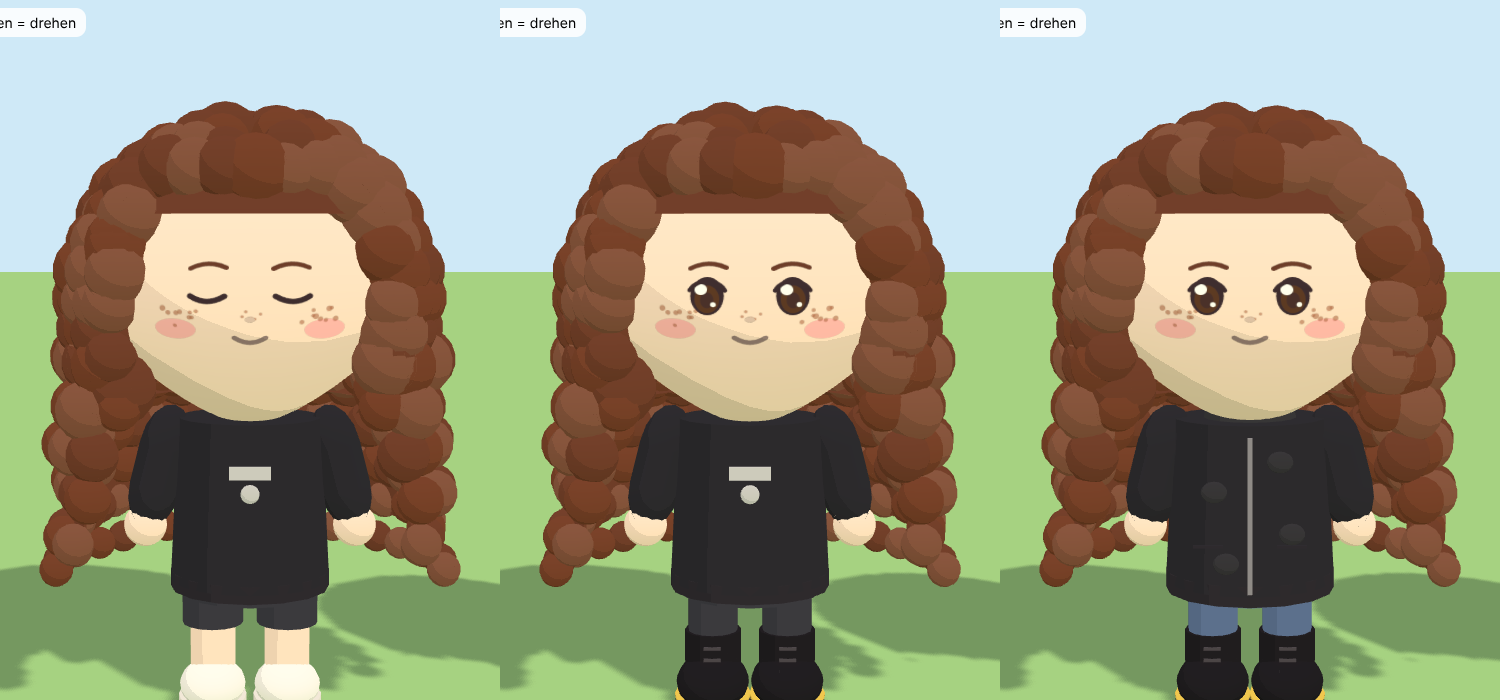
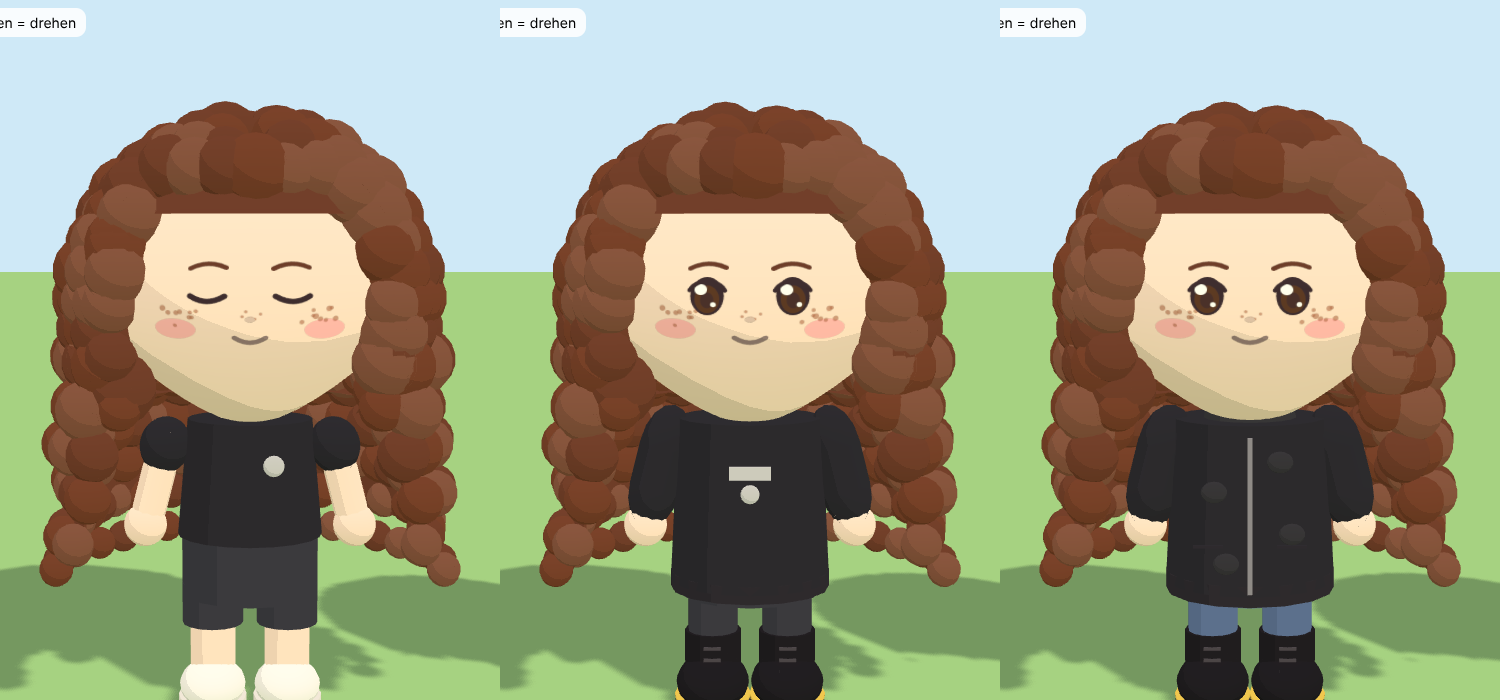
Tür-Animation beim Betreten/Verlassen & kurzes Sommer-Oberteil für Lina
- doorTransition: Lina geht zur Tür hinein, weiches Abblenden, tritt auf der anderen Seite heraus
  (Haus, Räume/Treppe, Sonntagsessen bei Jens); Winston kommt mit
- Outfit „Kurzes Oberteil & kurze Hose“ (kurze Ärmel), Streetwear je nach Jahreszeit nutzt es im Sommer

Claude-Session: https://claude.ai/code/session_01ThTYhPHTkGtFy4ue8CC8z3

diff --git a/src/world3d/World3D.ts b/src/world3d/World3D.ts
@@ -161,6 +161,8 @@ export class World3D {
   /** erst nach dem Verlassen eines Ausgangs-Feldes darf er wieder auslösen */
   private exitArmed = true;
   private winston: Winston | null = null;
+  /** Automatisches Gehen (Tür-Animation) */
+  private autoWalk: { dx: number; dy: number; until: number } | null = null;
   private yard: Yard3D;
   private animals: Animals3D;
   private digSpots: DigSpots3D;
@@ -337,7 +339,9 @@ export class World3D {
         }
       }
       const blocked = this.session.uiBlocking || this.cutscene;
-      const intent = blocked ? { dx: 0, dy: 0, run: false } : this.keys.direction();
+      const auto = this.autoWalk && performance.now() < this.autoWalk.until ? this.autoWalk : null;
+      if (!auto) this.autoWalk = null;
+      const intent = auto ? { dx: auto.dx, dy: auto.dy, run: false } : blocked ? { dx: 0, dy: 0, run: false } : this.keys.direction();
       if (blocked && player.hasPath && !this.cutscene) player.cancelPath();
       const grid = this.session.map.grid;
       if (this.fishing.active && (intent.dx !== 0 || intent.dy !== 0 || player.hasPath)) this.stopFishing();
@@ -348,7 +352,8 @@ export class World3D {
         : (tx: number, ty: number) => grid.isBlocked(tx, ty);
       // drinnen bleibt Lina beim Einrichten stehen, im Garten darf sie herumlaufen
       if (this.session.decorActive && this.session.inside) intent.dx = intent.dy = 0;
-      player.update(dtMs, intent, solid);
+      // beim Durch-die-Tür-Gehen: keine Kollision (sonst stünde Lina vor der Hauswand)
+      player.update(dtMs, intent, auto ? () => false : solid);
       this.updateWinston(dtMs, player, blocked, solid);
       this.updateHomeOli(dtMs);
       if (this.session.inside && !this.session.decorActive) {
@@ -1137,7 +1142,7 @@ export class World3D {
       return;
     }
     if (id === 'haus-lina') {
-      this.enterHome();
+      this.doorTransition('up', () => this.enterHome(), 'up');
       return;
     }
     if (id === 'haus-thalia') {
@@ -1658,7 +1663,7 @@ export class World3D {
         title,
         lines: ['Aus dem Haus duftet es herrlich, drinnen wird gelacht.', '„Lina! Komm rein, komm rein – mir sitzen schon alle am Tisch!“'],
         choices: [
-          { label: '🍽 Reingehen & mitessen', onSelect: () => this.sundayDinner(jens) },
+          { label: '🍽 Reingehen & mitessen', onSelect: () => this.doorTransition('up', () => this.sundayDinner(jens), 'down') },
           { label: '👋 Später', onSelect: () => undefined },
         ],
       });
@@ -2101,8 +2106,46 @@ export class World3D {
   }
 
   private useExit(e: Exit) {
-    if (e.to === 'draussen') this.exitHome();
-    else this.placeInRoom(e.to, this.session.roomId);
+    if (this.cutscene) return;
+    if (e.to === 'draussen') this.doorTransition('down', () => this.exitHome(), 'down');
+    else this.doorTransition(e.dir, () => this.placeInRoom(e.to, this.session.roomId), e.dir === 'up' ? 'down' : 'up');
+  }
+
+  /**
+   * Tür-Animation: Lina geht ein paar Schritte (`dirIn`), das Bild blendet weich ab, `action` wechselt
+   * den Ort, dann blendet es wieder auf und Lina geht ein Stück weiter (`dirOut`). Winston kommt mit.
+   */
+  private doorTransition(dirIn: 'up' | 'down', action: () => void, dirOut: 'up' | 'down') {
+    const player = this.player;
+    if (!player || this.cutscene) return;
+    this.cutscene = true;
+    player.cancelPath();
+    if (player.sitting) this.standUp();
+    this.marker.visible = false;
+    const dy = (d: 'up' | 'down') => (d === 'up' ? -1 : 1);
+    player.face(dirIn);
+    this.autoWalk = { dx: 0, dy: dy(dirIn), until: performance.now() + 380 };
+    this.session.bus.emit('overlay:fade', true);
+    window.setTimeout(() => {
+      this.autoWalk = null;
+      action();
+      const p = this.player;
+      if (p) {
+        // ein Stück zurück „in die Tür“ setzen, damit Lina heraustreten kann
+        p.teleport(p.x, p.y - dy(dirOut) * 22);
+        p.face(dirOut);
+        this.dogFollow();
+      }
+      window.setTimeout(() => {
+        this.session.bus.emit('overlay:fade', false);
+        this.autoWalk = { dx: 0, dy: dy(dirOut), until: performance.now() + 260 };
+        window.setTimeout(() => {
+          this.autoWalk = null;
+          this.cutscene = false;
+          this.exitArmed = false;
+        }, 300);
+      }, 120);
+    }, 420);
   }
 
   private enterHome() {

diff --git a/src/world3d/models/chibi3d.ts b/src/world3d/models/chibi3d.ts
@@ -509,6 +509,7 @@ export class Chibi3D {
         break;
       case 'sweatshirt':
       case 'shorts':
+      case 'sommer':
       case 'fleece':
         pants = a.accentColor === a.outfitColor ? (o === 'fleece' ? jeans : '#3a3a44') : a.accentColor;
         break;
@@ -522,7 +523,7 @@ export class Chibi3D {
     for (const side of [-1, 1]) {
       const leg = new THREE.Group();
       leg.position.set(side * 0.066 * bw, this.hipY, 0);
-      if (o === 'shorts') {
+      if (o === 'shorts' || o === 'sommer') {
         // kurze Hose: oben Stoff, darunter Beine
         leg.add(part(cylinder, skin, 0.04 * Math.min(1.15, bw), legLen, 0.04, 0, -legLen / 2, 0));
         leg.add(part(cylinder, pants, 0.054 * Math.min(1.15, bw), legLen * 0.42, 0.054, 0, -legLen * 0.21, 0));
@@ -565,10 +566,13 @@ export class Chibi3D {
       shirtMat = new THREE.MeshToonMaterial({ map: tex });
     }
     const street = o === 'sweatshirt' || o === 'shorts' || o === 'fleece';
+    const summer = o === 'sommer';
     // Oversize: weiter & länger (reicht über die Hüfte)
     const shirt = street
       ? part(new THREE.CylinderGeometry(0.9, 1, 1, 20), shirtMat, topR * (o === 'fleece' ? 1.38 : 1.3), torso * 0.98, topR * (o === 'fleece' ? 1.28 : 1.2), 0, torsoY + torso * 0.02, 0)
-      : part(new THREE.CylinderGeometry(0.82, 1, 1, 20), shirtMat, topR * 1.15, torso * 0.78, topR * 1.05, 0, torsoY + torso * 0.11, 0);
+      : summer
+        ? part(new THREE.CylinderGeometry(0.86, 1, 1, 20), shirtMat, topR * 1.18, torso * 0.7, topR * 1.08, 0, torsoY + torso * 0.15, 0)
+        : part(new THREE.CylinderGeometry(0.82, 1, 1, 20), shirtMat, topR * 1.15, torso * 0.78, topR * 1.05, 0, torsoY + torso * 0.11, 0);
     this.body.add(shirt);
     const neckY = this.hipY + torso * 0.98;
 
@@ -606,6 +610,14 @@ export class Chibi3D {
       this.body.add(hood);
       for (const s of [-1, 1]) this.body.add(part(cylinder, '#1e1e24', 0.006, 0.09, 0.006, s * 0.03, neckY - 0.06, topR * 1.02));
       this.body.add(part(box, '#1e1e24', 0.008, torso * 0.65, 0.006, 0, torsoY + 0.02, topR * 1.05));
+    }
+    if (summer) {
+      // kurzes Shirt: runder Halsausschnitt, kleines eigenes Emblem
+      const neck = mesh(new THREE.TorusGeometry(topR * 0.5, 0.01, 6, 18), toon(darken(a.outfitColor, 0.1)));
+      neck.rotation.x = Math.PI / 2;
+      neck.position.y = neckY - 0.01;
+      this.body.add(neck);
+      this.body.add(part(sphereLow, lighten(a.outfitColor, 0.75), 0.018, 0.018, 0.006, 0.04, torsoY + 0.08, topR * 1.1));
     }
     if (o === 'sweatshirt' || o === 'shorts') {
       // Rippbündchen unten & am Hals, kleines Emblem auf der Brust (eigenes Design, keine Marke)
@@ -670,7 +682,11 @@ export class Chibi3D {
       arm.position.set(side * (topR + 0.035), shoulderY, 0);
       arm.rotation.z = side * 0.25;
       const thick = street ? (o === 'fleece' ? 1.4 : 1.28) : 1;
-      arm.add(part(capsule, sleeveMat, 0.035 * Math.min(1.15, bw) * thick, (street ? 0.075 : 0.1) * Math.min(1.1, h), 0.035 * thick, 0, street ? -0.065 : -0.08, 0));
+      if (summer) {
+        // kurze Ärmel, darunter nackter Arm
+        arm.add(part(capsule, skin, 0.03 * Math.min(1.15, bw), 0.07 * Math.min(1.1, h), 0.03, 0, -0.105, 0));
+        arm.add(part(sphere, sleeveMat, 0.045 * Math.min(1.15, bw), 0.05, 0.045, 0, -0.025, 0));
+      } else arm.add(part(capsule, sleeveMat, 0.035 * Math.min(1.15, bw) * thick, (street ? 0.075 : 0.1) * Math.min(1.1, h), 0.035 * thick, 0, street ? -0.065 : -0.08, 0));
       arm.add(part(sphere, skin, 0.038, 0.038, 0.038, 0, -0.17 * Math.min(1.1, h), 0));
       this.handY = -0.17 * Math.min(1.1, h);
       this.body.add(arm);

diff --git a/src/core/appearance.ts b/src/core/appearance.ts
@@ -9,7 +9,7 @@ import { palette } from '../style/palette';
 import type { Season } from './time';
 
 export type HairStyle = 'locken' | 'schulterlang' | 'bob' | 'zopf' | 'dutt' | 'kurz' | 'wuschel' | 'zerzaust' | 'kurzgeschoren' | 'glatt';
-export type Outfit = 'kleid' | 'pulli' | 'latzhose' | 'hemd' | 'strickjacke' | 'mantel' | 'weste' | 'streifenhemd' | 'hoodie' | 'troyer' | 'sweatshirt' | 'shorts' | 'fleece' | 'saison';
+export type Outfit = 'kleid' | 'pulli' | 'latzhose' | 'hemd' | 'strickjacke' | 'mantel' | 'weste' | 'streifenhemd' | 'hoodie' | 'troyer' | 'sweatshirt' | 'shorts' | 'sommer' | 'fleece' | 'saison';
 export type Beard = 'keiner' | 'kurz' | 'voll' | 'schnurrbart';
 export type Smile = 'laecheln' | 'grinsen' | 'zahnluecke';
 export type GlassesShape = 'rund' | 'eckig';
@@ -77,6 +77,7 @@ export const OUTFITS: Option<Outfit>[] = [
   { id: 'mantel', label: 'Mantel & Schal' },
   { id: 'sweatshirt', label: 'Oversize-Sweatshirt' },
   { id: 'shorts', label: 'Sweatshirt & kurze Hose' },
+  { id: 'sommer', label: 'Kurzes Oberteil & kurze Hose' },
   { id: 'fleece', label: 'Dicke Fleece-Jacke' },
   { id: 'saison', label: 'Streetwear je nach Jahreszeit' },
 ];
@@ -84,7 +85,7 @@ export const OUTFITS: Option<Outfit>[] = [
 /** Was eine Figur in der Jahreszeit tatsächlich trägt („saison“ = Streetwear: Sommer kurz, Winter Fleece) */
 export function outfitFor(a: Appearance, season: Season): Exclude<Outfit, 'saison'> {
   if (a.outfit !== 'saison') return a.outfit;
-  return season === 'sommer' ? 'shorts' : season === 'winter' ? 'fleece' : 'sweatshirt';
+  return season === 'sommer' ? 'sommer' : season === 'winter' ? 'fleece' : 'sweatshirt';
 }
 
 export const SMILES: Option<Smile>[] = [

diff --git a/src/ui/Hud.tsx b/src/ui/Hud.tsx
@@ -37,10 +37,13 @@ export function Hud({ session }: { session: Session }) {
   const { inside, inYard, decor } = useHomeState(session);
   const [stars, setStars] = useState(false);
   useEffect(() => session.bus.on('overlay:stars', setStars), [session]);
+  const [fade, setFade] = useState(false);
+  useEffect(() => session.bus.on('overlay:fade', setFade), [session]);
   return (
     <>
       {weather.rainbow && <div class="rainbow-overlay" aria-hidden="true" />}
       {stars && <StarsOverlay />}
+      <div class={`door-fade ${fade ? 'on' : ''}`} aria-hidden="true" />
       {isFireworkTime(now) && !inside && <FireworksOverlay />}
       <div class="hud-clock pop-in">
         <div class="hud-time">

diff --git a/src/core/appearance.test.ts b/src/core/appearance.test.ts
@@ -54,7 +54,7 @@ describe('Aussehen', () => {
 
   it('Streetwear je nach Jahreszeit: Sommer kurz, Winter Fleece', () => {
     const a = { ...DEFAULT_LINA, outfit: 'saison' as const };
-    expect(outfitFor(a, 'sommer')).toBe('shorts');
+    expect(outfitFor(a, 'sommer')).toBe('sommer');
     expect(outfitFor(a, 'winter')).toBe('fleece');
     expect(outfitFor(a, 'herbst')).toBe('sweatshirt');
     expect(outfitFor({ ...a, outfit: 'kleid' }, 'winter')).toBe('kleid');

diff --git a/src/ui/ui.css b/src/ui/ui.css
@@ -1679,3 +1679,19 @@ body {
   gap: 6px;
   margin-top: 10px;
 }
+
+/* ---------------------------------------------------------------- Tür-Animation */
+
+.door-fade {
+  position: fixed;
+  inset: 0;
+  pointer-events: none;
+  background: radial-gradient(circle at 50% 55%, transparent 0%, var(--ui-text) 0%);
+  opacity: 0;
+  transition: opacity 0.38s ease-in-out;
+  z-index: 5;
+}
+
+.door-fade.on {
+  opacity: 1;
+}

diff --git a/src/game/session.ts b/src/game/session.ts
@@ -107,6 +107,8 @@ export type GameEvents = {
   'home:yard': boolean;
   /** Sternenhimmel mit Sternschnuppen einblenden (Sterne gucken mit Oli) */
   'overlay:stars': boolean;
+  /** Weiches Abblenden (Tür-Animation): true = dunkel */
+  'overlay:fade': boolean;
   /** Einrichtungsmodus: an/aus, was gerade gehalten wird */
   'decor:state': DecorState;
   /** Oberfläche → Welt: Einrichten steuern */

diff --git a/CLAUDE.md b/CLAUDE.md
@@ -23,7 +23,7 @@ Meilensteine und Fortschritt: siehe [`ROADMAP.md`](ROADMAP.md).
 
 | Figur | Rolle | Aussehen (für die Chibi-Figuren) |
 |---|---|---|
-| **Lina** | Spielerin | kastanienbraune Locken, etwas länger als schulterlang, Mittelscheitel, kein Pony, braune Augen, Sommersprossen, trägt am liebsten **Schwarz** und gern **Oversize-Streetwear-Sweatshirts** (keine echten Markenlogos im Spiel!) – im Sommer mit kurzer Hose & weißen Sneakern, im Winter dicke Fleece-Jacke & Doc-Martens-artige Schnürstiefel (`outfit: 'saison'`, alles im Editor anpassbar), Geburtstag **16.06.**; **kocht leidenschaftlich gern**, schaut gern Datingshows (à la First Dates), True Crime und Dokus über stark übergewichtige Menschen (im Spiel immer respektvoll & warmherzig, nie spöttisch) |
+| **Lina** | Spielerin | kastanienbraune Locken, etwas länger als schulterlang, Mittelscheitel, kein Pony, braune Augen, Sommersprossen, trägt am liebsten **Schwarz** und gern **Oversize-Streetwear-Sweatshirts** (keine echten Markenlogos im Spiel!) – im Sommer kurzes schwarzes Oberteil mit kurzer Hose & weißen Sneakern, im Winter dicke Fleece-Jacke & Doc-Martens-artige Schnürstiefel (`outfit: 'saison'`, alles im Editor anpassbar), Geburtstag **16.06.**; **kocht leidenschaftlich gern**, schaut gern Datingshows (à la First Dates), True Crime und Dokus über stark übergewichtige Menschen (im Spiel immer respektvoll & warmherzig, nie spöttisch) |
 | **Oliver („Oli“)** | Linas Freund – höchste Bindung, romantische Szenen, gemeinsames Haus/Zimmer; nennt Lina „Lini“, Geburtstag **29.07.** | schlank, kurze dunkelblonde Haare, Schnurrbart, blaugraue Augen, schwarzer Troyer-Pulli, strahlendes Lächeln |
 | **Lars** | großer Bruder, Arzt – Praxis/Apotheke; guter Humor, hat immer einen Spruch auf Lager (z. B. „So, und nicht mit e, sonst ist es ein See.“) | groß & kräftig, kurz geschorene rotblonde Haare, rotblonder Vollbart, blaue Augen, dunkles Streifenhemd |
 | **Olaf** | Papa, Finanzamt – Dorfkasse/Bank; **Zwillingsbruder von Jens** | eher klein, dunkle angegraute Haare, grauer kurzer Bart, eckige Brille, weißes Hemd mit dunkler Weste |

diff --git a/ROADMAP.md b/ROADMAP.md
@@ -179,6 +179,8 @@ Legende: ✅ erledigt · 🚧 in Arbeit · ⬜ geplant
   (respektvoll), True Crime „Wahre Fälle vom Land“, Kochshow „Kochen mit Herz“ – jeden Tag neue Folgen
 - ✅ Oli schaut mit, wenn er zu Hause ist (Kommentare, Freundschaft); Kochshow bringt 3 neue Rezepte bei
 - ✅ Küchenzeile mit Herd & Sofa im Katalog – Lina kocht zu Hause
+- ✅ Tür-Animation beim Betreten & Verlassen von Gebäuden (Lina geht hinein, weiches Abblenden, tritt heraus)
+- ✅ Lina im Sommer: kurzes schwarzes Oberteil mit kurzer Hose
 
 **M7g ✅ Treffen der Bewohner & Linas Streetwear**
 - ✅ Kaffeeklatsch an Omas Bank (Mo/Mi/Fr 15–17), Angeln am Fluss (Olaf & Christin, Di/Do/Sa 16–18),
